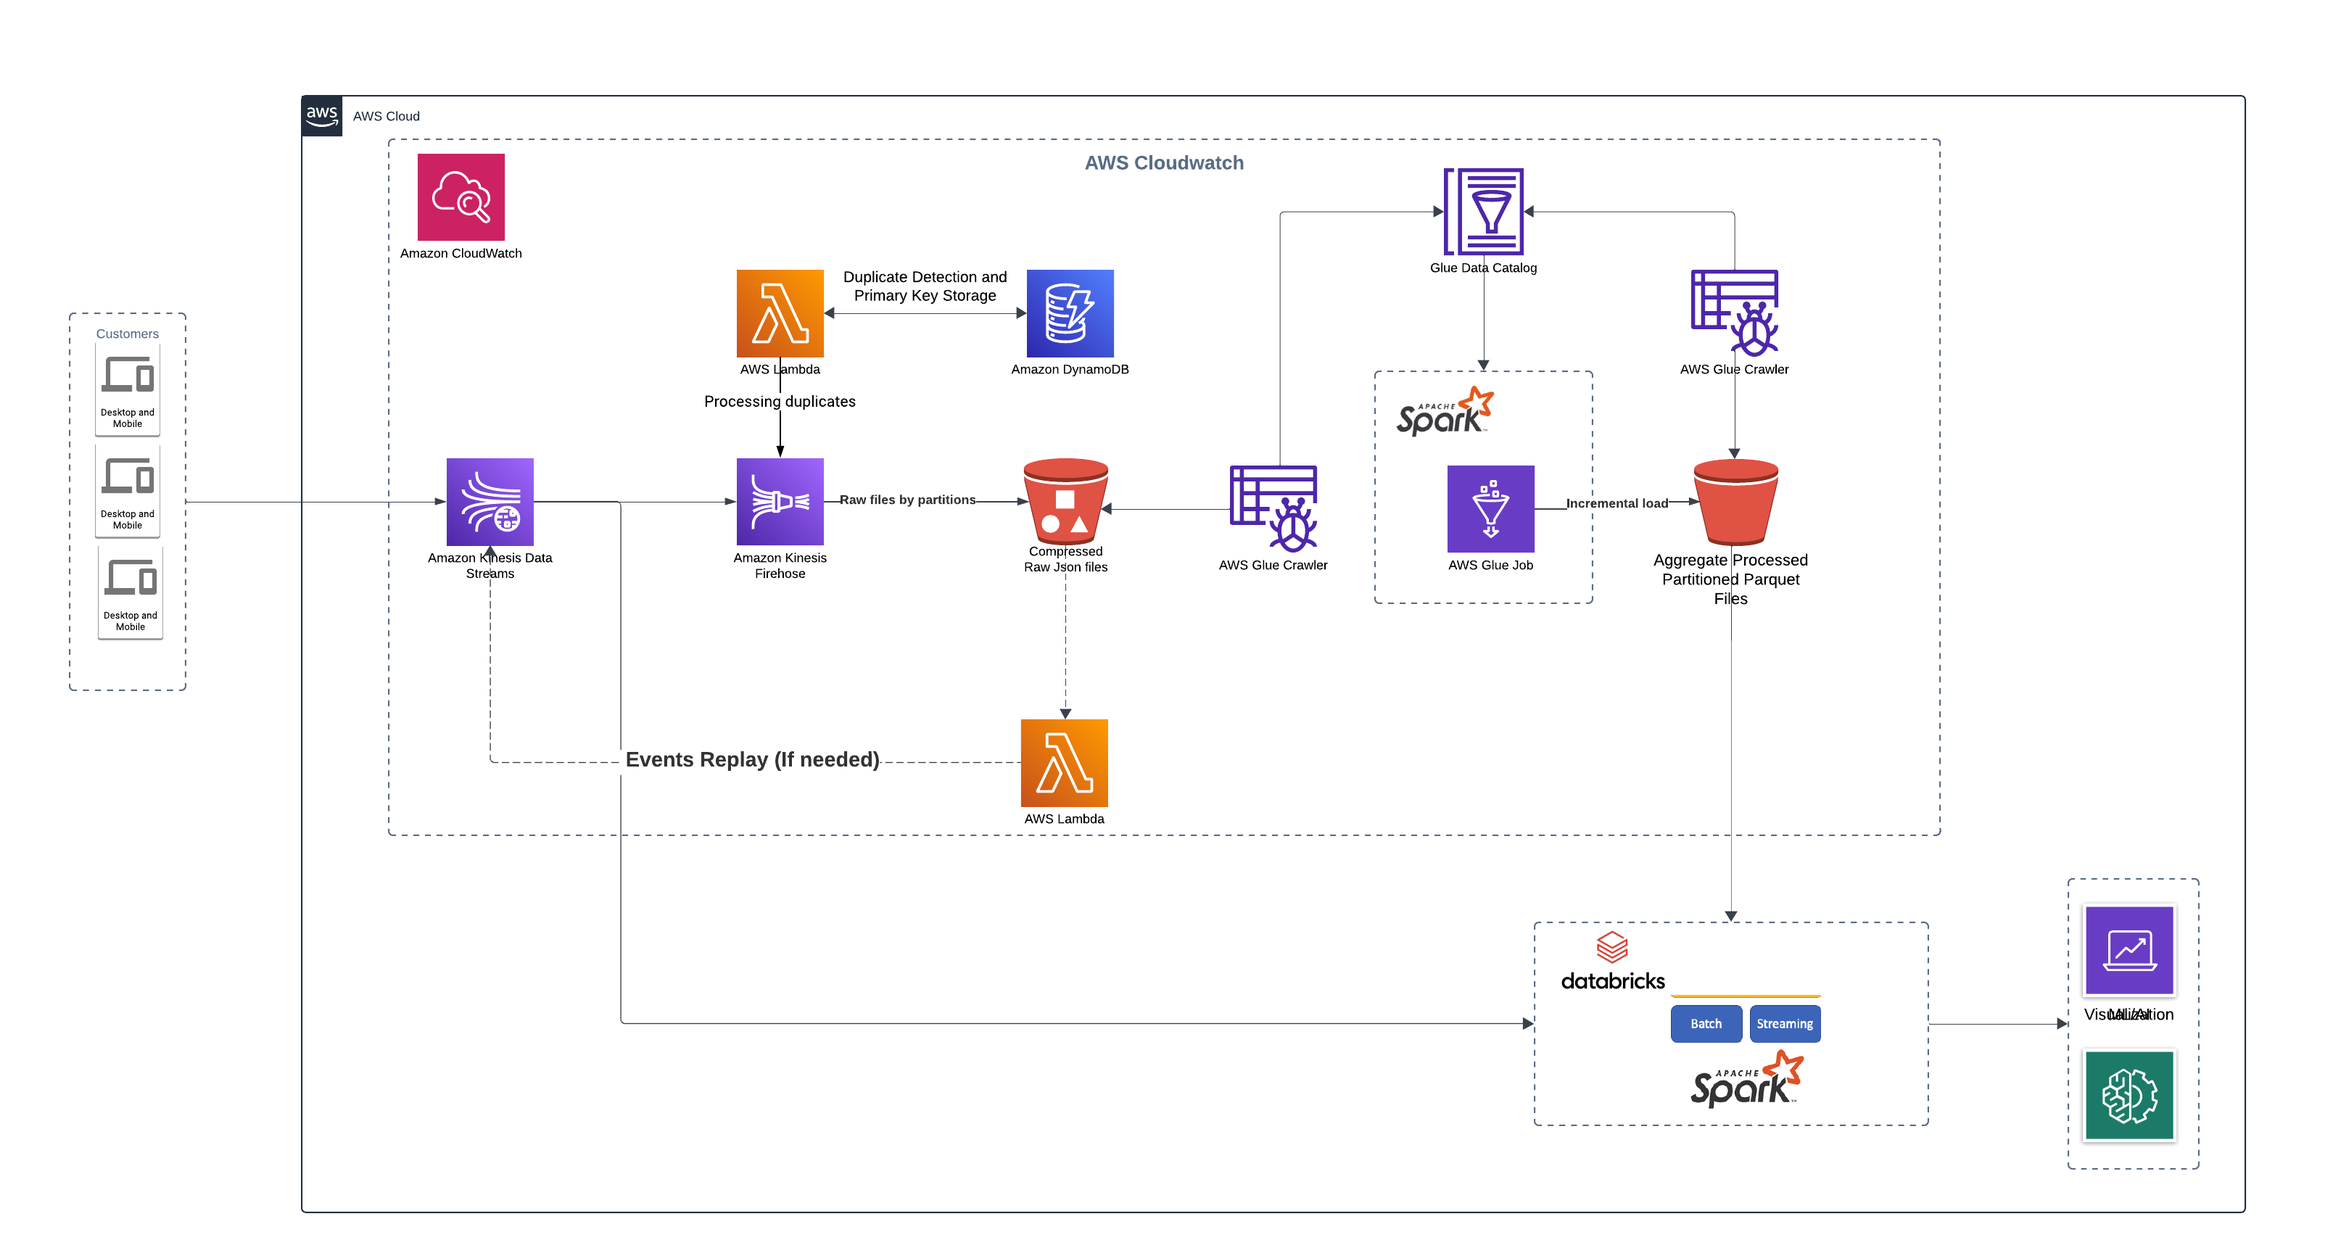
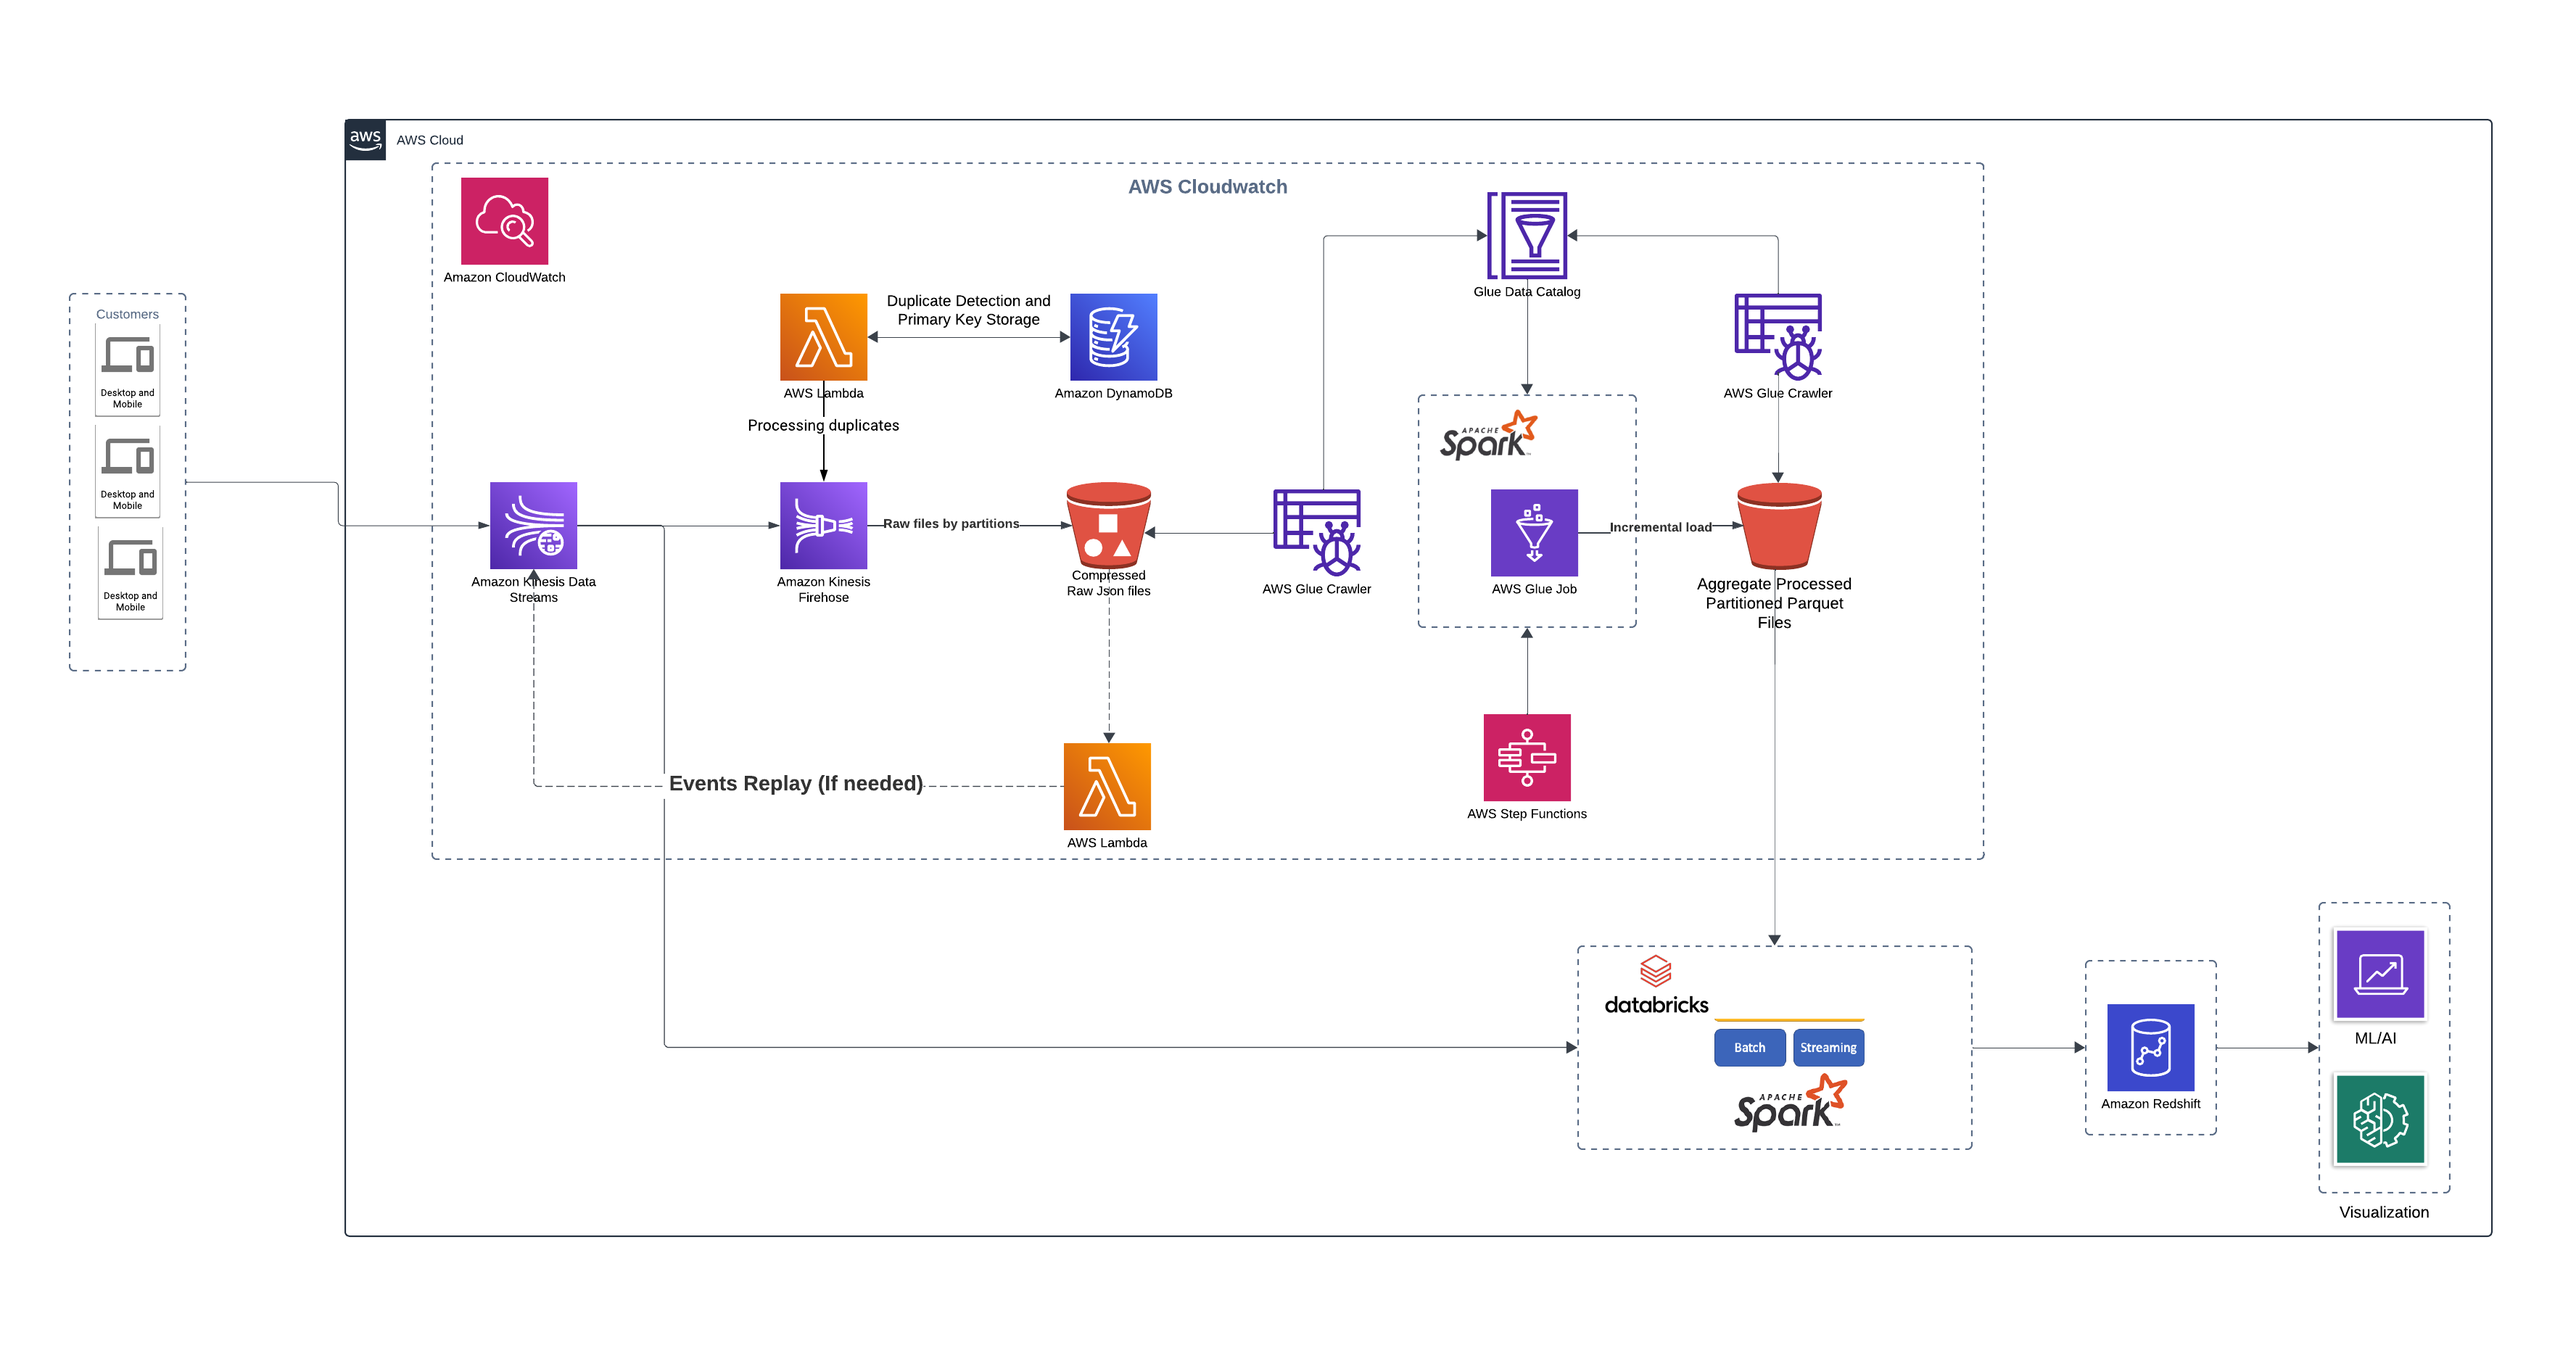
Added step functions desc

diff --git a/scripts/aws_glue_jobs/incremental_convert_json_to_parquet.py b/scripts/aws_glue_jobs/incremental_convert_json_to_parquet.py
@@ -1,0 +1,62 @@
+import sys
+
+from pyspark.sql import SparkSession
+from pyspark.sql.functions import col
+from pyspark.sql.types import StructType, StructField, StringType, DateType
+
+from awsglue.transforms import *
+from awsglue.utils import getResolvedOptions
+from awsglue.context import GlueContext
+from awsglue.job import Job
+from awsglue.dynamicframe import DynamicFrame
+
+# Initialize GlueContext and SparkSession
+args = getResolvedOptions(sys.argv, ['JOB_NAME', 'DATABASE_NAME', 'TABLE_NAME', 'OUTPUT_PATH'])
+spark = SparkSession.builder.appName("GlueJob").getOrCreate()
+glueContext = GlueContext(spark.sparkContext)
+job = Job(glueContext)
+job.init(args['JOB_NAME'], args)
+
+# Parameters
+database_name = args['DATABASE_NAME']
+table_name = args['TABLE_NAME']
+output_path = args['OUTPUT_PATH']
+
+# Read from Glue Catalog
+raw_dyf = glueContext.create_dynamic_frame.from_catalog(
+    database=database_name,
+    table_name=table_name,
+    transformation_ctx="raw_dyf"
+)
+
+# Define the schema for the Parquet file
+schema = StructType([
+    StructField("event_type", StringType(), True),
+    StructField("event_subtype", StringType(), True),
+    StructField("event_uuid", StringType(), True),
+    StructField("created_at", DateType(), True),
+    StructField("event_name", StringType(), True),
+    # Add other fields as necessary
+])
+
+raw_df = raw_dyf.toDF()
+
+# Apply the schema to the DataFrame
+raw_df = spark.createDataFrame(raw_df.rdd, schema)
+
+# Convert back to DynamicFrame
+raw_dyf = DynamicFrame.fromDF(raw_df, glueContext, "raw_dyf")
+
+# Write the data to Parquet format, partitioned by event_type, event_subtype, year, month, and day
+glueContext.write_dynamic_frame.from_options(
+    frame=raw_dyf,
+    connection_type="s3",
+    connection_options={
+        "path": output_path,
+        "partitionKeys": ["event_type", "event_subtype", "year", "month", "day"]
+    },
+    format="parquet",
+    transformation_ctx="datasink4"
+)
+
+job.commit()

diff --git a/scripts/aws_glue_jobs/READMD.md b/scripts/aws_glue_jobs/READMD.md
@@ -1,0 +1,75 @@
+### AWS Glue PySpark Script for Incremental Load
+
+
+### PySpark Script [incremental_convert_json_to_parquet.py](incremental_convert_json_to_parquet.py)
+
+### Setting Up the AWS Glue Job
+
+1. **Upload the Script**: Upload your script (`incremental_convert_json_to_parquet.py`) to an S3 bucket.
+2. **Create a Glue Job**:
+   - Go to the AWS Glue console.
+   - Click on "Jobs" and then "Add job".
+   - Name your job (e.g., `incremental-convert-json-to-parquet`).
+   - Choose an IAM role with appropriate permissions.
+   - For "Type", select "Spark".
+   - For "This job runs", select "A new script to be authored by you".
+   - In the script section, specify the S3 path to your uploaded script.
+   - Set "Temporary directory" for job bookmarks to manage incremental loads.
+
+### Glue Crawler Setup
+
+1. **Create a Glue Crawler**:
+   - Go to the AWS Glue console.
+   - Click on "Crawlers" and then "Add crawler".
+   - Name your crawler (e.g., `json-data-crawler`).
+   - Set the data store to your S3 path (e.g., `s3://your-bucket-name/raw-data/`).
+   - Set the crawler to run on a schedule that matches your data ingestion frequency (e.g., daily).
+
+### Scheduling the AWS Glue Job
+
+1. **Create a Schedule**:
+   - Go to the AWS Glue console.
+   - Click on "Triggers" and then "Add trigger".
+   - Name your trigger (e.g., `daily-midnight-trigger`).
+   - Set the trigger type to "Scheduled".
+   - Set the schedule to run daily at midnight (e.g., `cron(0 0 * * ? *)`).
+   - Attach the trigger to the Glue job you created earlier.
+
+### Using Job Bookmarks
+
+Enable job bookmarks in your Glue job settings to ensure that the job processes only new data added since the last run.
+
+1. **Enable Job Bookmarks**:
+   - Go to the AWS Glue console.
+   - Navigate to your job (e.g., `incremental-convert-json-to-parquet`).
+   - Under the "Job details" section, enable the "Job bookmark" setting.
+
+### Or using AWS Step Functions to Trigger AWS Glue Jobs with Parameters
+
+AWS Step Functions can be used to orchestrate the execution of AWS Glue jobs, including passing parameters to the jobs.
+
+1. **Create the Step Function**
+
+Define your Step Function to start the AWS Glue job with parameters. Here’s an example definition: [step_function_definition.json](../aws_step_functions/trigger_glue_incremental_load_job.json)
+
+2. **Deploy the Step Function**
+
+Deploy the Step Function using the AWS Management Console or using the AWS CLI. Here’s an example using the AWS CLI:
+
+```sh
+aws stepfunctions create-state-machine \
+    --name "TriggerGlueJobStateMachine" \
+    --definition file://step_function_definition.json \
+    --role-arn arn:aws:iam::account-id:role/your-step-functions-role
+```
+
+5. **Trigger the Step Function**
+
+Start the Step Function execution and pass the required parameters using the AWS Management Console or the AWS CLI. Here’s an example using the AWS CLI:
+
+```sh
+aws stepfunctions start-execution \
+    --state-machine-arn arn:aws:states:region:account-id:stateMachine:TriggerGlueJobStateMachine \
+    --input '{"database_name": "your_database", "table_name": "your_table", "output_path": "s3://your-bucket-name/processed-data/"}'
+```
+

diff --git a/README.md b/README.md
@@ -44,6 +44,7 @@ This repository contains the code and infrastructure to create a robust, scalabl
 12. **Databricks with Apache Spark**: Processes both batch and streaming data from Amazon S3 for advanced analytics.
 13. **Visualization and ML/AI**: Utilizes the processed data for generating insights through visualization tools and machine learning models.
 14. **Events Replay (AWS Lambda)**: Replays events from raw JSON files if needed for data recovery or reprocessing.
+15. **AWS Step Functions**: Orchestrates and schedules AWS Glue jobs, allowing you to define workflows that manage job dependencies and automate job execution, including triggering Glue jobs at specified times or based on events.
 
 --- 
 
@@ -157,6 +158,13 @@ AWS Glue is a fully managed ETL (Extract, Transform, Load) service that simplifi
 8. **Job Scheduling and Orchestration**:
    - **Built-in Scheduler**: Glue provides a built-in job scheduler that allows you to define and manage job schedules, dependencies, and retries, simplifying the orchestration of complex ETL workflows.
    - **Event-driven ETL**: Glue supports event-driven ETL workflows, enabling you to trigger jobs based on events in other AWS services such as S3 or DynamoDB Streams.
+
+9. **Step Function**:
+   - **Visual Workflow**: AWS Step Functions allows you to build visual workflows to orchestrate multiple AWS services, including Glue, Lambda, and S3, simplifying the coordination of complex ETL processes.
+   - **State Management**: Manages state transitions, error handling, and retries automatically, ensuring robust and reliable workflow execution.
+   - **Event-Driven Execution**: Triggers workflows based on events from other AWS services or custom events, allowing for flexible, event-driven ETL operations.
+   - **Parallel Processing**: Supports parallel execution of tasks, enabling efficient processing of large data volumes and reducing overall processing time.
+
 
 ### Handling Data Volumes
 
@@ -280,7 +288,7 @@ AWS Glue is a fully managed ETL (Extract, Transform, Load) service that simplifi
 - The Kinesis stream captures incoming data, and the Lambda function processes each record, checking for duplicates using DynamoDB.
 - This approach ensures only unique data is stored in S3, with DynamoDB acting as a cache to filter duplicates.
 
-**For detailed code logic, refer to the [Detailed Implementation README.md](./scripts/README.md)**
+**For detailed code logic, refer to the [Detailed Implementation README.md](scripts/aws_lambda_functions/README.md)**
 
 ---
 
@@ -342,7 +350,7 @@ AWS Glue Crawler will automatically recognize these partitions and add them to t
    - Glue Crawler and Catalog ensure that partitions are recognized and optimized for query performance.
    - Databricks utilizes these partitions for advanced analytics, ensuring efficient data processing.
 
-**For detailed code logic, refer to the [Detailed Implementation README.md](./scripts/README.md)**
+**For detailed code logic, refer to the [Detailed Implementation README.md](scripts/aws_lambda_functions/README.md)**
 
 ---
 
